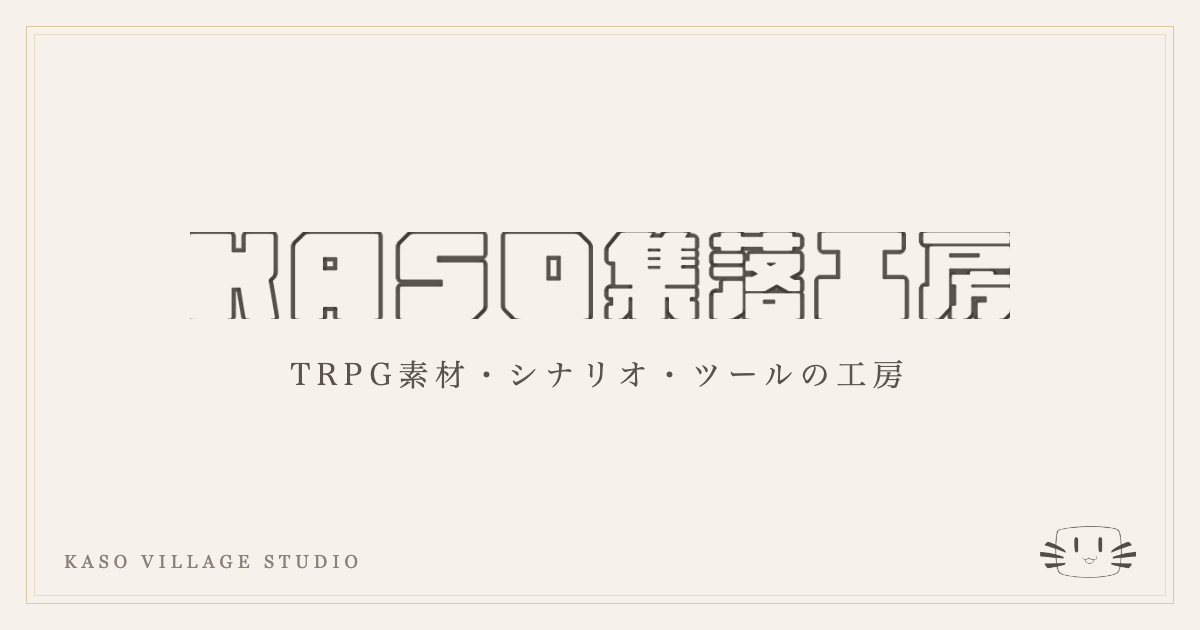
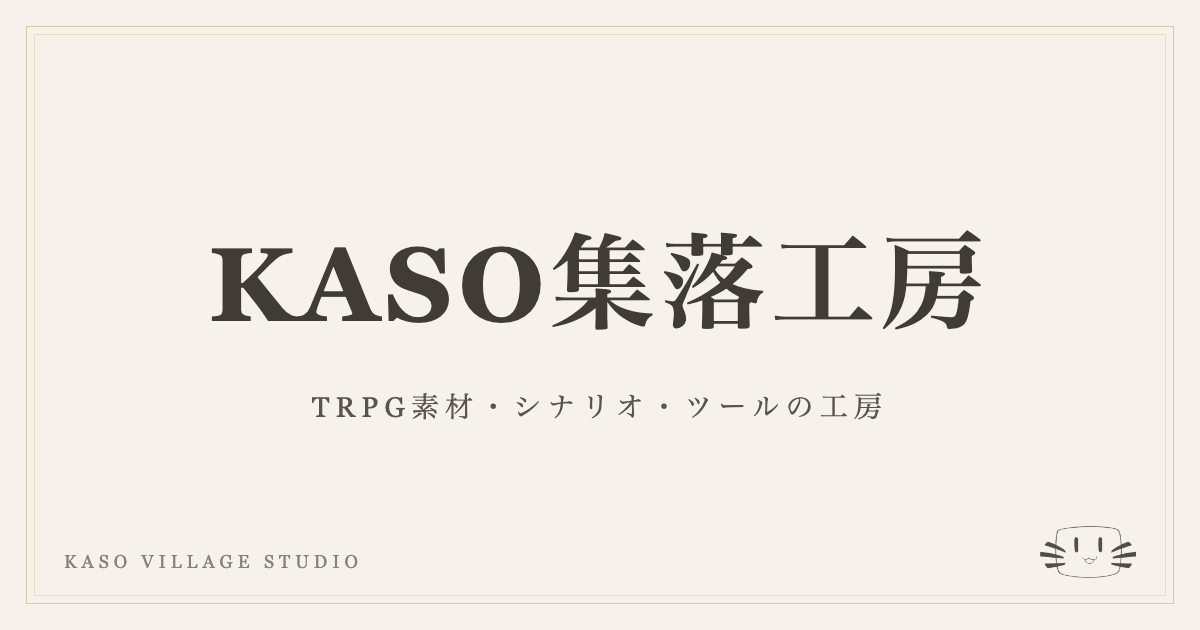
ロゴ画像をやめて黒文字テキストの屋号表記に(ヘッダー/ヒーロー/OGP)
抽出ロゴは右端が欠けて小サイズで読みにくかったため、明朝系の黒文字に変更

diff --git a/src/app/page.tsx b/src/app/page.tsx
@@ -15,16 +15,7 @@ export default function Home() {
       <section className="hero">
         <div className="hero-copy">
           <p className="eyebrow">KASO VILLAGE STUDIO</p>
-          <h1 className="hero-logo-wrap">
-            <Image
-              className="hero-logo"
-              src={assetPath("/assets/kobo-logo-dark.png")}
-              alt="KASO集落工房"
-              width={938}
-              height={100}
-              priority
-            />
-          </h1>
+          <h1 className="hero-title-ja">KASO集落工房</h1>
           <p className="lead">TRPGの「遊ぶ体験」を、まるごとつくる工房。</p>
           <p className="hero-roles">
             素材・シナリオの制作と頒布 ／ 立ち絵の受託制作 ／ 制作ツールの開発

diff --git a/src/app/globals.css b/src/app/globals.css
@@ -50,30 +50,22 @@ a {
 
 .brand {
   display: grid;
-  gap: 4px;
-  font-family: Georgia, "Times New Roman", serif;
+  gap: 2px;
+  font-family: Georgia, "Hiragino Mincho ProN", "Yu Mincho", "Times New Roman", serif;
   letter-spacing: 0.04em;
 }
 
 .brand span {
   font-size: 18px;
+  color: var(--ink);
 }
 
-.brand-logo {
-  width: auto;
-  height: 20px;
-}
-
-.hero .hero-logo-wrap,
-.hero-logo-wrap {
-  margin: 0;
-  line-height: 0;
-}
-
-.hero-logo {
-  display: block;
-  width: min(470px, 92%);
-  height: auto;
+.hero h1.hero-title-ja {
+  font-family: Georgia, "Hiragino Mincho ProN", "Yu Mincho", "Times New Roman", serif;
+  font-size: clamp(38px, 5.2vw, 64px);
+  line-height: 1.15;
+  letter-spacing: 0.04em;
+  color: var(--ink);
 }
 
 .news-list {

diff --git a/src/components/Header.tsx b/src/components/Header.tsx
@@ -1,6 +1,4 @@
-import Image from "next/image";
 import Link from "next/link";
-import { assetPath } from "@/lib/assetPath";
 
 const navItems = [
   { href: "/", label: "Top" },
@@ -19,14 +17,7 @@ export function Header() {
   return (
     <header className="site-header">
       <Link className="brand" href="/" aria-label="KASO集落工房 Top">
-        <Image
-          className="brand-logo"
-          src={assetPath("/assets/kobo-logo-dark.png")}
-          alt="KASO集落工房"
-          width={938}
-          height={100}
-          priority
-        />
+        <span>KASO集落工房</span>
         <small>TRPG素材・シナリオ・ツールの工房</small>
       </Link>
       <nav aria-label="Primary navigation">
